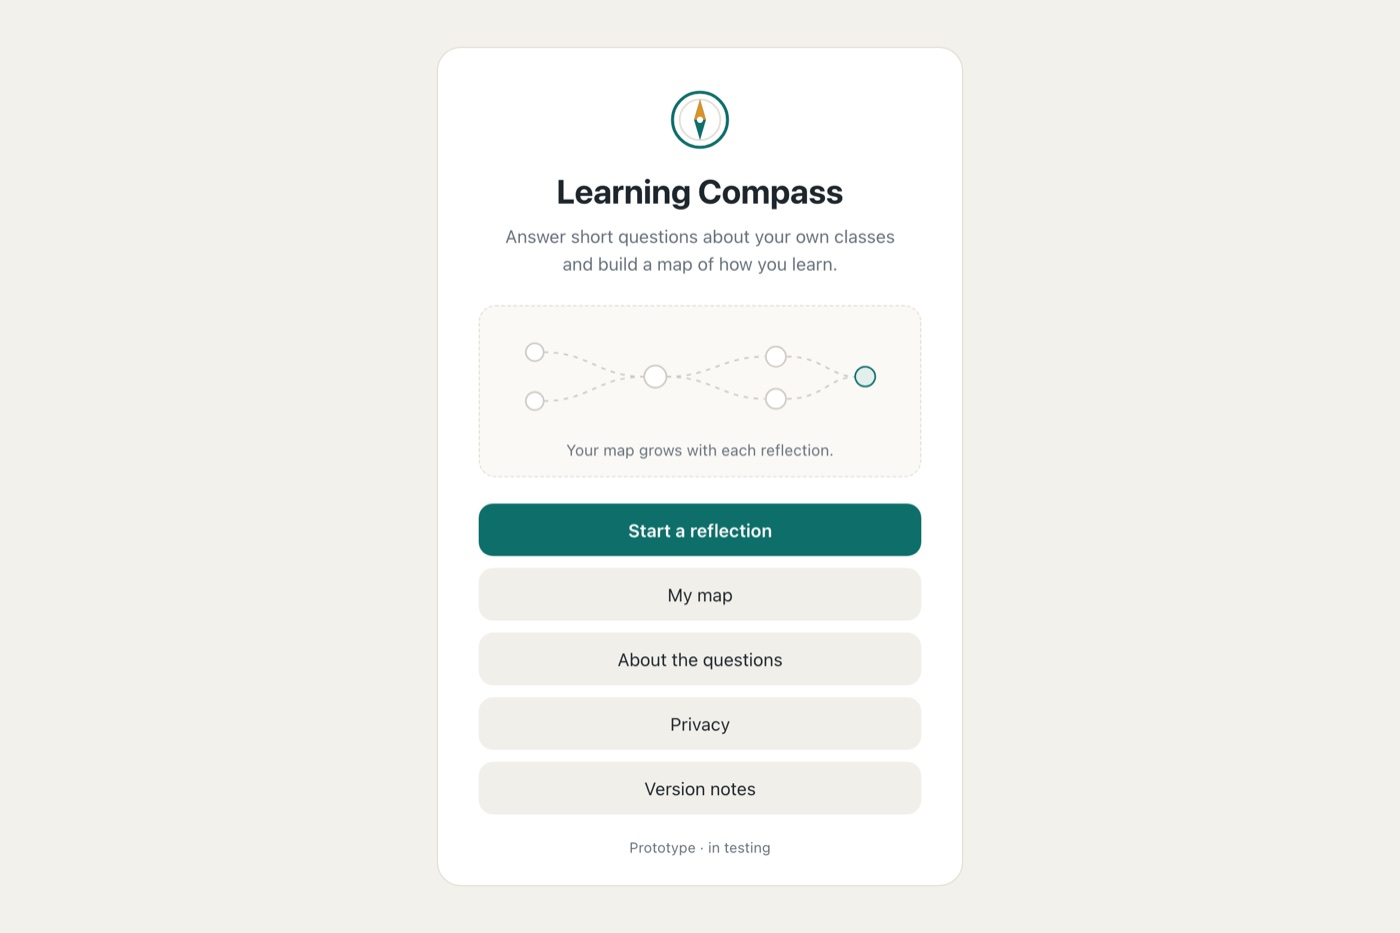
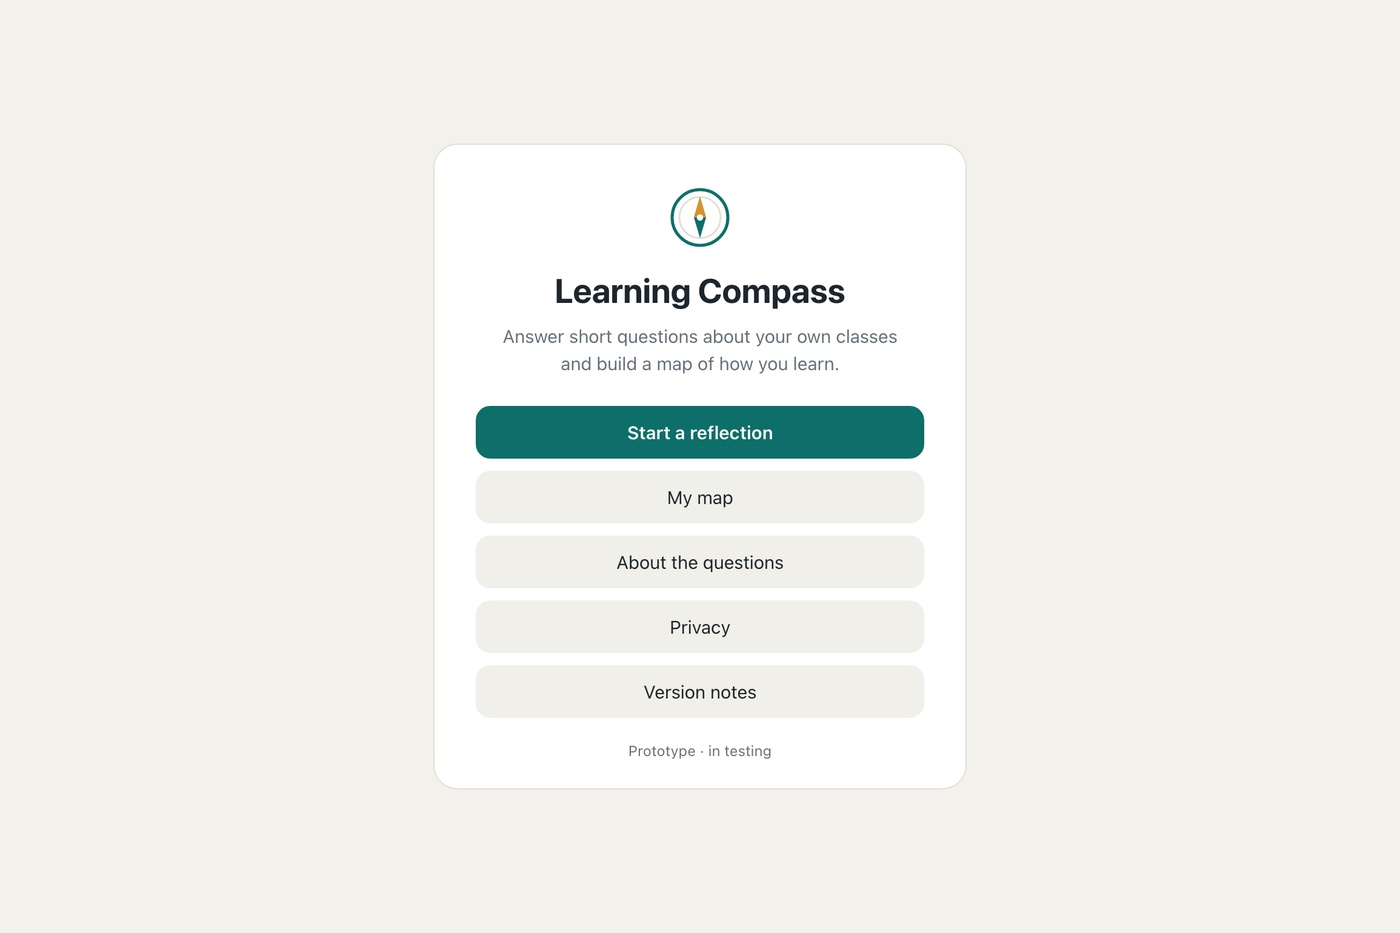
Add files via upload

diff --git a/learning-compass.html b/learning-compass.html
@@ -18,11 +18,11 @@
       <header class="label">
         <span class="tag">05</span>
         <h1>Learning Compass</h1>
-        <p class="summary">A tool that helps students understand how they learn and choose courses for themselves. It maps their own reasoning instead of recommending courses, and it's designed to keep their reflections private.</p>
-        <p>It began as a course recommender that stalled. The project is now in the concept and testing stage. Pictured: a mockup of its start page.</p>
+        <p class="summary">A tool that helps students understand how they learn and choose courses for themselves. It's designed to keep their reflections private.</p>
+        <p>It began as a course recommender that stalled because of privacy policies. The project is now in the concept and testing stage.</p>
       </header>
       <div class="media">
-        <img class="screen narrow" src="images/learning-compass/start-page.jpg" width="1041" height="1400" alt="Mockup of the Learning Compass start page: a compass icon, the title, an empty map that grows with each reflection, and buttons for Start a reflection, My map, About the questions, Privacy, and Version notes.">
+        <img class="screen narrow" src="images/learning-compass/start-page.jpg" width="1041" height="1097" alt="Mockup of the Learning Compass start page: a compass icon, the title, and buttons for Start a reflection, My map, About the questions, Privacy, and Version notes.">
       </div>
     </div>
 
